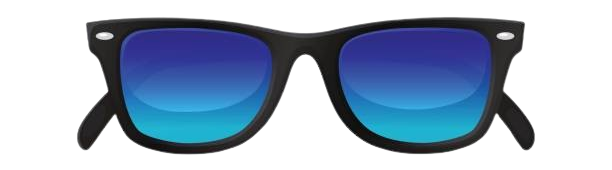
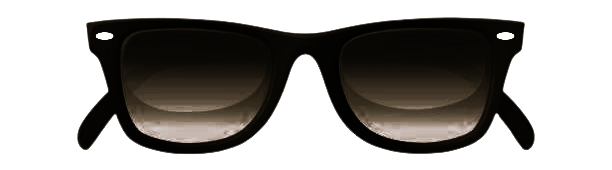
[ATT] - primeira fileira finalizada

diff --git a/product.html b/product.html
@@ -21,13 +21,14 @@
       <h1 class="imagem"> <img src="/imagens/certa.png" alt="Logo do Perucci"></h1>
   </div>
 
-    <h1 class="sun"> SUN GLASSES </h1>
+    <h1 class="sun"> ÓCULOS DE SOL</h1>
     <br>
+    <ul class="reto"> 
     <header class="product">
-      <div class="img" > <img  src="/imagens/oculos1.png" ></div>
+      <div class="img" > <img  src="/imagens/oculos3.png" ></div>
         <ul class="textos"> 
-          <strong> <li class="padrao">BLUE GLASSES POLARIZED</li> </strong>
-          <li class="desc">Óculos com proteção UV, polarizado</li>
+          <strong> <li class="padrao">ÓCULOS AZUL ESPELHADO</li> </strong>
+          <li class="desc">Óculos com proteção UV, espelhado</li>
           <li class="preco">R$ 120,00</li>
           <li class="preco2">Frete Grátis, 10x de R$ 12,00</li>
           <li class="preco">ESCOLHA O TAMANHO</li>
@@ -40,7 +41,41 @@
         </ul>
         <button id="car" class="add"> &#9829 ADICIONAR NO CARRINHO </button>
     </header>
-
+    <header class="product">
+      <div class="img" > <img  src="/imagens/oculos2.png" ></div>
+        <ul class="textos"> 
+          <strong> <li class="padrao">ÓCULOS PRETO</li> </strong>
+          <li class="desc">Óculos com proteção UV, polarizado</li>
+          <li class="preco">R$ 150,00</li>
+          <li class="preco2">Frete Grátis, 10x de R$ 15,00</li>
+          <li class="preco">ESCOLHA O TAMANHO</li>
+          <ul class="tam"> 
+            <li > <button id="pp"> P </button> </li>
+            <li > <button id="mm"> M </button> </li>
+            <li > <button id="gg"> G </button> </li>
+          </ul>
+          <li id="ch"> </li>
+        </ul>
+        <button id="card" class="add"> &#9829 ADICIONAR NO CARRINHO </button>
+    </header>
+    <header class="product">
+      <div class="img" > <img  src="/imagens/oculos1.png" ></div>
+        <ul class="textos"> 
+          <strong> <li class="padrao">ÓCULOS MARRON</li> </strong>
+          <li class="desc">Óculos com proteção UV, polarizado</li>
+          <li class="preco">R$ 200,00</li>
+          <li class="preco2">Frete Grátis, 10x de R$ 20,00</li>
+          <li class="preco">ESCOLHA O TAMANHO</li>
+          <ul class="tam"> 
+            <li > <button id="ppp"> P </button> </li>
+            <li > <button id="mmm"> M </button> </li>
+            <li > <button id="ggg"> G </button> </li>
+          </ul>
+          <li id="ch"> </li>
+        </ul>
+        <button id="cardi" class="add"> &#9829 ADICIONAR NO CARRINHO </button>
+    </header>
+  </ul> 
     
 
 

diff --git a/script.js b/script.js
@@ -47,5 +47,73 @@ grande.addEventListener('click', ()=>{
     medio.style.backgroundColor = "#d8d8d8"; 
 }); 
 
+var peq = document.getElementById("pp");
+var med = document.getElementById("mm");
+var gra = document.getElementById("gg");
+const btn2 = document.getElementById("card"); 
+
+// Variável para armazenar o tamanho selecionado
+var selectedSize = "";
+
+btn2.addEventListener('click', ()=>{  
+        btn2.textContent = "ADICIONADO" 
+        btn2.style.backgroundColor = "#e6b845"; 
+}); 
+
+
+peq.addEventListener('click', ()=>{  
+    peq.style.backgroundColor = "#e6b845"; 
+    med.style.backgroundColor = "#d8d8d8"; 
+    gra.style.backgroundColor = "#d8d8d8"; 
+}); 
+
+med.addEventListener('click', ()=>{  
+    med.style.backgroundColor = "#e6b845"; 
+    peq.style.backgroundColor = "#d8d8d8"; 
+    gra.style.backgroundColor = "#d8d8d8"; 
+}); 
+
+gra.addEventListener('click', ()=>{  
+    gra.style.backgroundColor = "#e6b845"; 
+    peq.style.backgroundColor = "#d8d8d8"; 
+    med.style.backgroundColor = "#d8d8d8"; 
+}); 
+
+
+var pequ = document.getElementById("ppp");
+var medi = document.getElementById("mmm");
+var gran = document.getElementById("ggg");
+const btn3 = document.getElementById("cardi"); 
+
+// Variável para armazenar o tamanho selecionado
+var selectedSize = "";
+
+btn3.addEventListener('click', ()=>{  
+        btn3.textContent = "ADICIONADO" 
+        btn3.style.backgroundColor = "#e6b845"; 
+}); 
+
+
+pequ.addEventListener('click', ()=>{  
+    pequ.style.backgroundColor = "#e6b845"; 
+    medi.style.backgroundColor = "#d8d8d8"; 
+    gran.style.backgroundColor = "#d8d8d8"; 
+}); 
+
+medi.addEventListener('click', ()=>{  
+    medi.style.backgroundColor = "#e6b845"; 
+    pequ.style.backgroundColor = "#d8d8d8"; 
+    gran.style.backgroundColor = "#d8d8d8"; 
+}); 
+
+gran.addEventListener('click', ()=>{  
+    gran.style.backgroundColor = "#e6b845"; 
+    pequ.style.backgroundColor = "#d8d8d8"; 
+    medi.style.backgroundColor = "#d8d8d8"; 
+}); 
+
+
+
+
 
 

diff --git a/product.css b/product.css
@@ -97,6 +97,7 @@ body {
     width: 280px;
     height: 100px;
     padding-top: 20px; 
+    padding-left: 15px;
 }
 
 .padrao {
@@ -143,6 +144,15 @@ ul.tam {
     gap: 10px;
     margin-left: 12px;
 }
+
+ul.reto { 
+    margin: 0;
+    padding: 0;
+    list-style: none; /* Remove as bolinhas da lista, se necessário */
+    display: flex;
+    flex-direction: row;
+}
+ 
 
 li.button {
     background-color: #d8d8d8;
